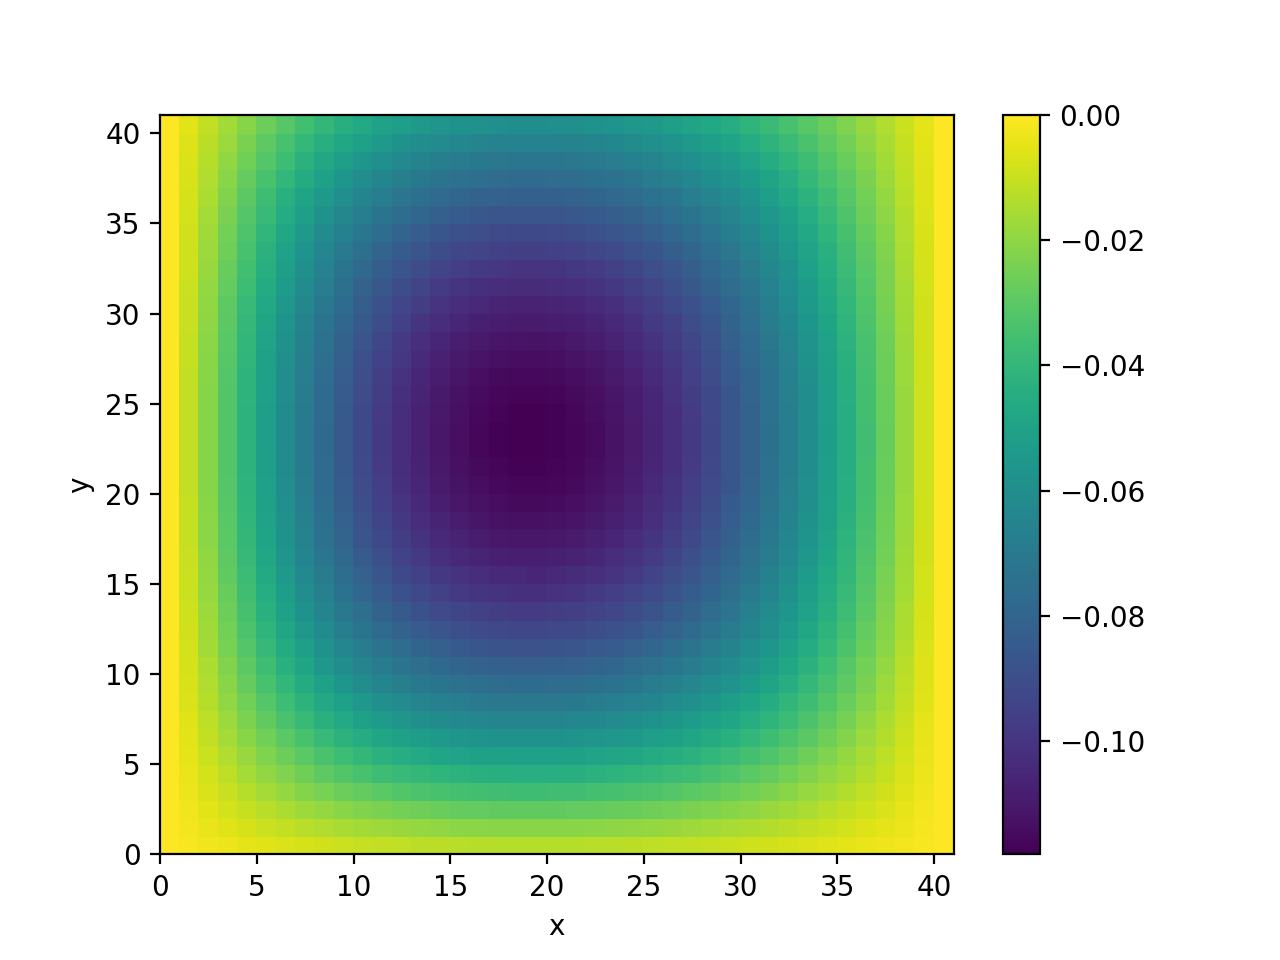
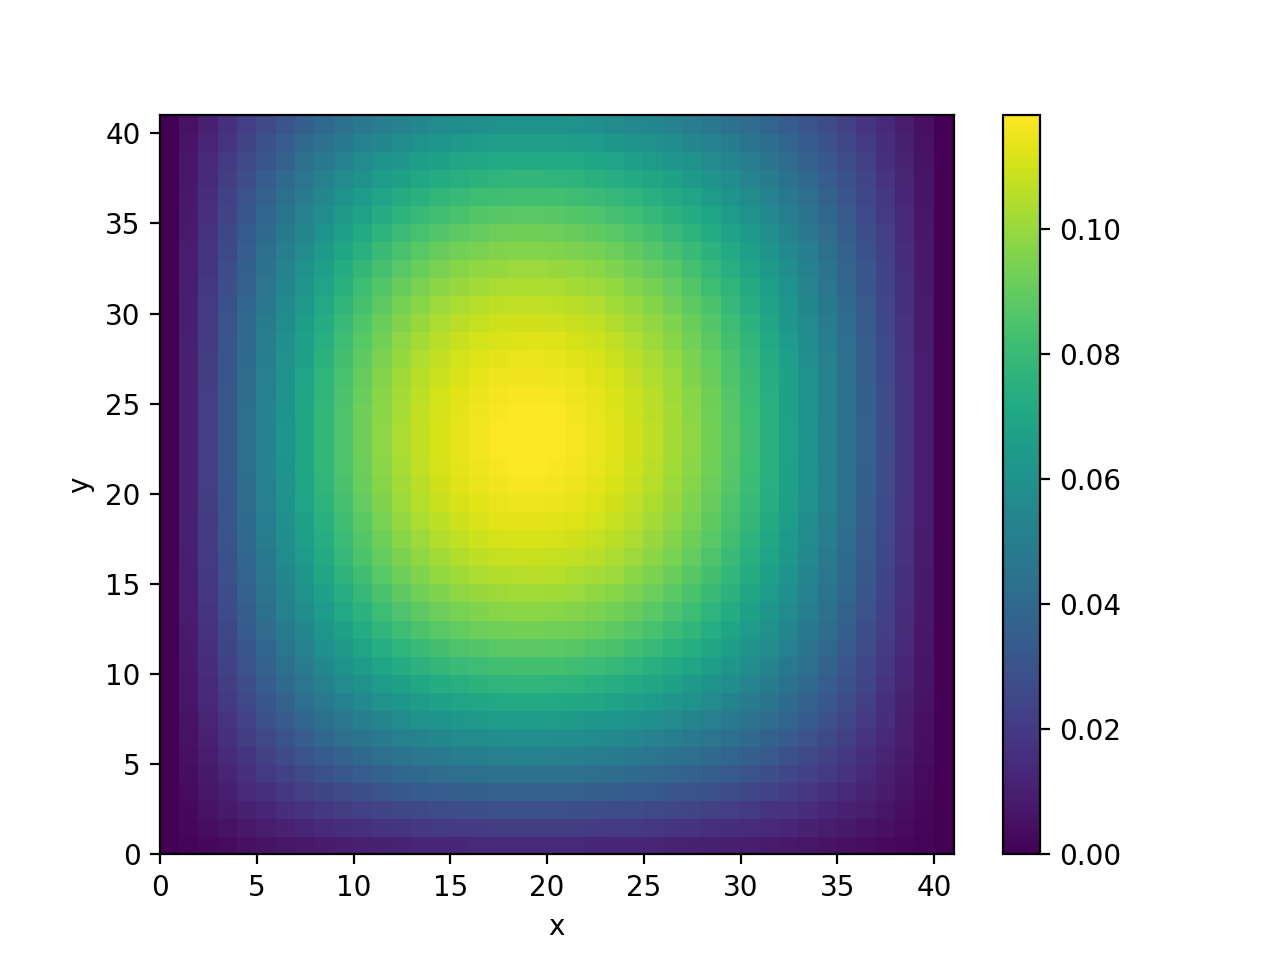
Diffsusion map bugfix

diff --git a/Lab9/main.py b/Lab9/main.py
@@ -89,7 +89,7 @@ def main():
 
         if iteration in map_iterations:
             draw_nodes(t.reshape(nx + 1, ny + 1), f"temperature_map_it{iteration}.png")
-            draw_nodes(diffusion_map(t1, t, delta_t).reshape(nx + 1, ny + 1), f"diffusion_map_it{iteration}.png")
+            draw_nodes(diffusion_map(t, t1, delta_t).reshape(nx + 1, ny + 1), f"diffusion_map_it{iteration}.png")
 
         t = t1
 
